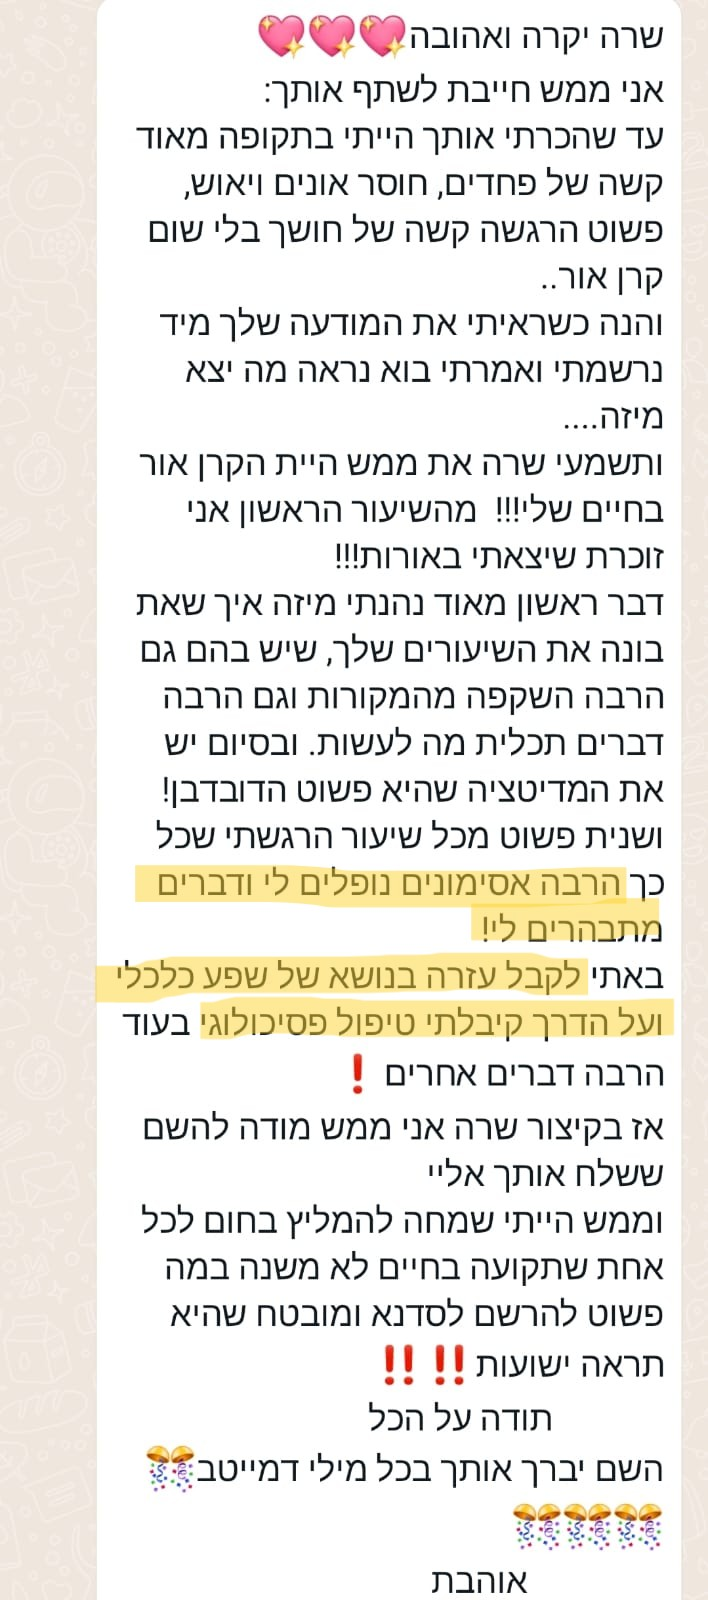
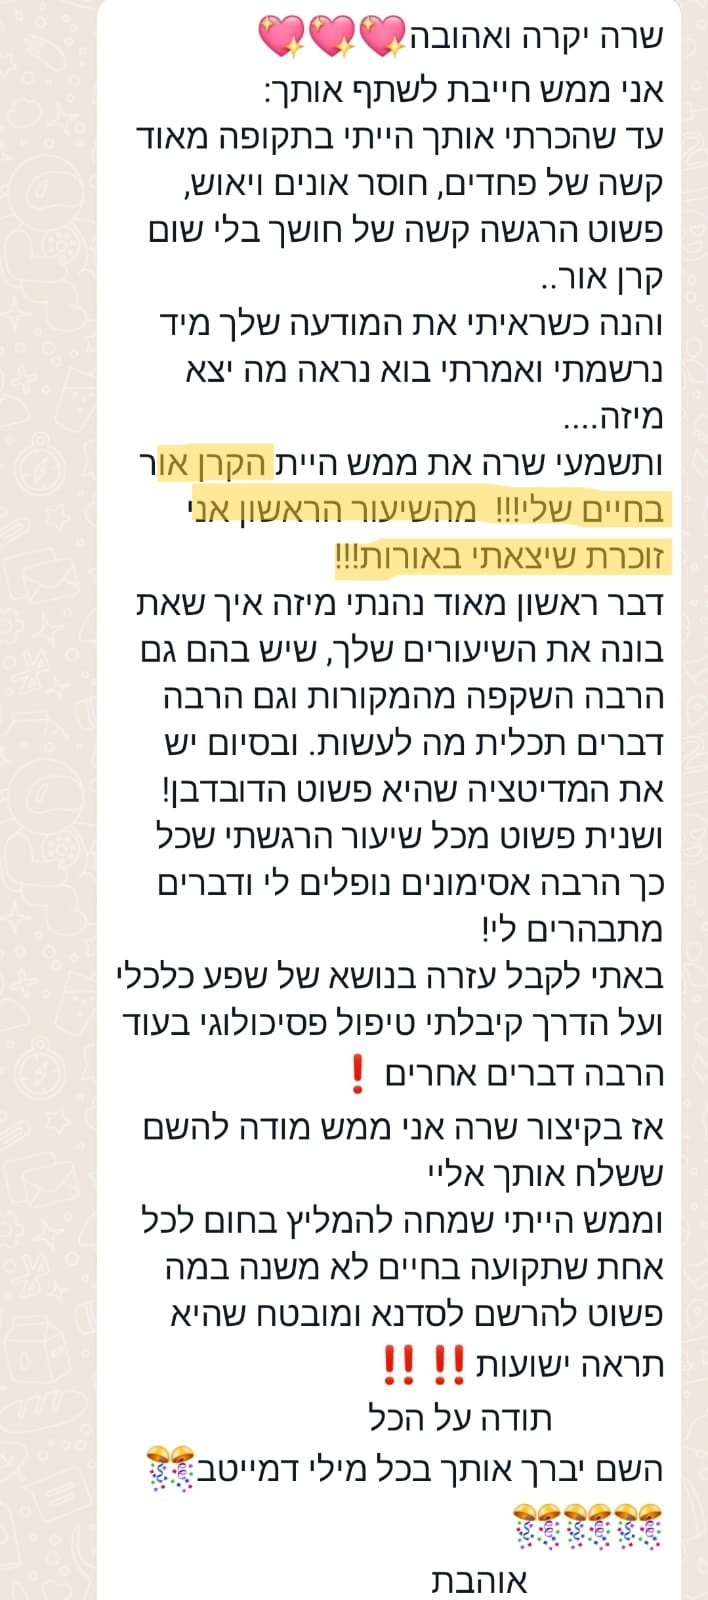
Add the eight testimonials Sarah marked up
She highlighted nine of the fifteen written testimonials. Eight are new
and go into a masonry gallery before the practical details; the ninth is
the message already on the page, remarked with a stronger line ("ותשמעי
שרה את ממש היית הקרן אור בחיים שלי"), so it replaces the old file rather
than appearing twice. The six she left untouched stay out.

Masonry rather than a grid, because these run from 576x268 to 508x1600
and a fixed frame would have cut them badly. Cards cap at 780px, which
clears the fade for every highlight; the tallest mark sits at 610.

Changed region(s): [[0.1243, 0.5312, 0.9633, 0.6562], [0.2175, 0.25, 0.9633, 0.375]]

diff --git a/index.html b/index.html
@@ -461,6 +461,25 @@ section{counter-reset:sb;}
 .btn-wa:active{transform:scale(.96);}
 @media (max-width:344px){.bar .btn-wa span{display:none;}.bar .btn-wa{padding:13px 14px;}}
 
+/* גלריית ההודעות הכתובות. עמודות במקום גריד, כי הצילומים
+   בפרופורציות שונות מאוד ומסגרת אחידה הייתה חותכת אותם רע. */
+.wt-grid{columns:3;column-gap:16px;margin-top:8px;}
+@media (max-width:900px){.wt-grid{columns:2;}}
+@media (max-width:600px){.wt-grid{columns:1;max-width:360px;margin-inline:auto;}}
+.wt-item{
+  display:block;break-inside:avoid;margin-bottom:16px;position:relative;
+  border-radius:var(--radius);overflow:hidden;border:1px solid var(--line);
+  background:#fff;box-shadow:var(--shadow-sm);max-height:780px;
+  transition:transform var(--t-base) var(--ease-out),box-shadow var(--t-base) var(--ease-out);
+}
+.wt-item:hover{transform:translateY(-3px);box-shadow:var(--shadow-md);}
+.wt-item:active{transform:scale(.985);}
+.wt-item img{width:100%;height:auto;display:block;}
+.wt-item::after{
+  content:"";position:absolute;inset-inline:0;bottom:0;height:110px;
+  background:linear-gradient(to bottom,rgba(255,255,255,0) 0%,#fff 82%);pointer-events:none;
+}
+
 /* ── חשיפה הדרגתית ───────────────────────────────────────────
    הכלל: התוכן גלוי כברירת מחדל. רק אם הסקריפט רץ בהצלחה
    הוא מוסיף .js ל-html, ורק אז מותר להסתיר משהו.
@@ -1237,8 +1256,45 @@ section{counter-reset:sb;}
   </div>
 </section>
 
-<!-- ═══ 12. פרטים פרקטיים ═══ -->
+<!-- ═══ עדויות כתובות ═══ -->
 <section class="alt reveal">
+  <div class="container">
+    <div class="head center">
+      <span class="eyebrow">ומה שנשים כתבו לי אחרי</span>
+      <h2 class="h2">ההודעות עצמן, כלשונן</h2>
+      <p class="lead">המשפטים המסומנים הם מה שהן בחרו לספר. ללחיצה על הודעה היא נפתחת במלואה.</p>
+    </div>
+    <div class="wt-grid">
+      <a class="wt-item" href="assets/testimonial-3.jpg" target="_blank" rel="noopener">
+        <img src="assets/testimonial-3.jpg" loading="lazy" alt="הודעה של משתתפת">
+      </a>
+      <a class="wt-item" href="assets/testimonial-4.jpg" target="_blank" rel="noopener">
+        <img src="assets/testimonial-4.jpg" loading="lazy" alt="הודעה של משתתפת">
+      </a>
+      <a class="wt-item" href="assets/testimonial-5.jpg" target="_blank" rel="noopener">
+        <img src="assets/testimonial-5.jpg" loading="lazy" alt="הודעה של משתתפת">
+      </a>
+      <a class="wt-item" href="assets/testimonial-6.jpg" target="_blank" rel="noopener">
+        <img src="assets/testimonial-6.jpg" loading="lazy" alt="הודעה של משתתפת">
+      </a>
+      <a class="wt-item" href="assets/testimonial-7.jpg" target="_blank" rel="noopener">
+        <img src="assets/testimonial-7.jpg" loading="lazy" alt="הודעה של משתתפת">
+      </a>
+      <a class="wt-item" href="assets/testimonial-8.jpg" target="_blank" rel="noopener">
+        <img src="assets/testimonial-8.jpg" loading="lazy" alt="הודעה של משתתפת">
+      </a>
+      <a class="wt-item" href="assets/testimonial-9.jpg" target="_blank" rel="noopener">
+        <img src="assets/testimonial-9.jpg" loading="lazy" alt="הודעה של משתתפת">
+      </a>
+      <a class="wt-item" href="assets/testimonial-10.jpg" target="_blank" rel="noopener">
+        <img src="assets/testimonial-10.jpg" loading="lazy" alt="הודעה של משתתפת">
+      </a>
+    </div>
+  </div>
+</section>
+
+<!-- ═══ 12. פרטים פרקטיים ═══ -->
+<section class="reveal">
   <div class="narrow">
     <div class="head center">
       <span class="eyebrow orange">פרטים פרקטיים</span>
@@ -1266,7 +1322,7 @@ section{counter-reset:sb;}
 </section>
 
 <!-- ═══ מי מלמדת ═══ -->
-<section class="reveal">
+<section class="alt reveal">
   <div class="container">
     <div class="auth">
       <div class="auth-photo"><img src="assets/sarah-hero.jpg" alt="שרה שרבאני"></div>
@@ -1288,7 +1344,7 @@ section{counter-reset:sb;}
 </section>
 
 <!-- ═══ 13. אודות שרה ═══ -->
-<section class="alt reveal">
+<section class="reveal">
   <div class="narrow">
     <div class="head">
       <span class="eyebrow">הסיפור שלי</span>
@@ -1326,7 +1382,7 @@ section{counter-reset:sb;}
 </section>
 
 <!-- ═══ 14. CTA שני ═══ -->
-<section class="reveal">
+<section class="alt reveal">
   <div class="narrow">
     <div class="cta">
       <h2 class="h2">אם הגעת עד לכאן, כנראה שמשהו בפנים כבר יודע</h2>
@@ -1343,7 +1399,7 @@ section{counter-reset:sb;}
 </section>
 
 <!-- ═══ 15. שאלות נפוצות ═══ -->
-<section class="alt reveal">
+<section class="reveal">
   <div class="narrow">
     <div class="head center">
       <span class="eyebrow">שאלות נפוצות</span>
